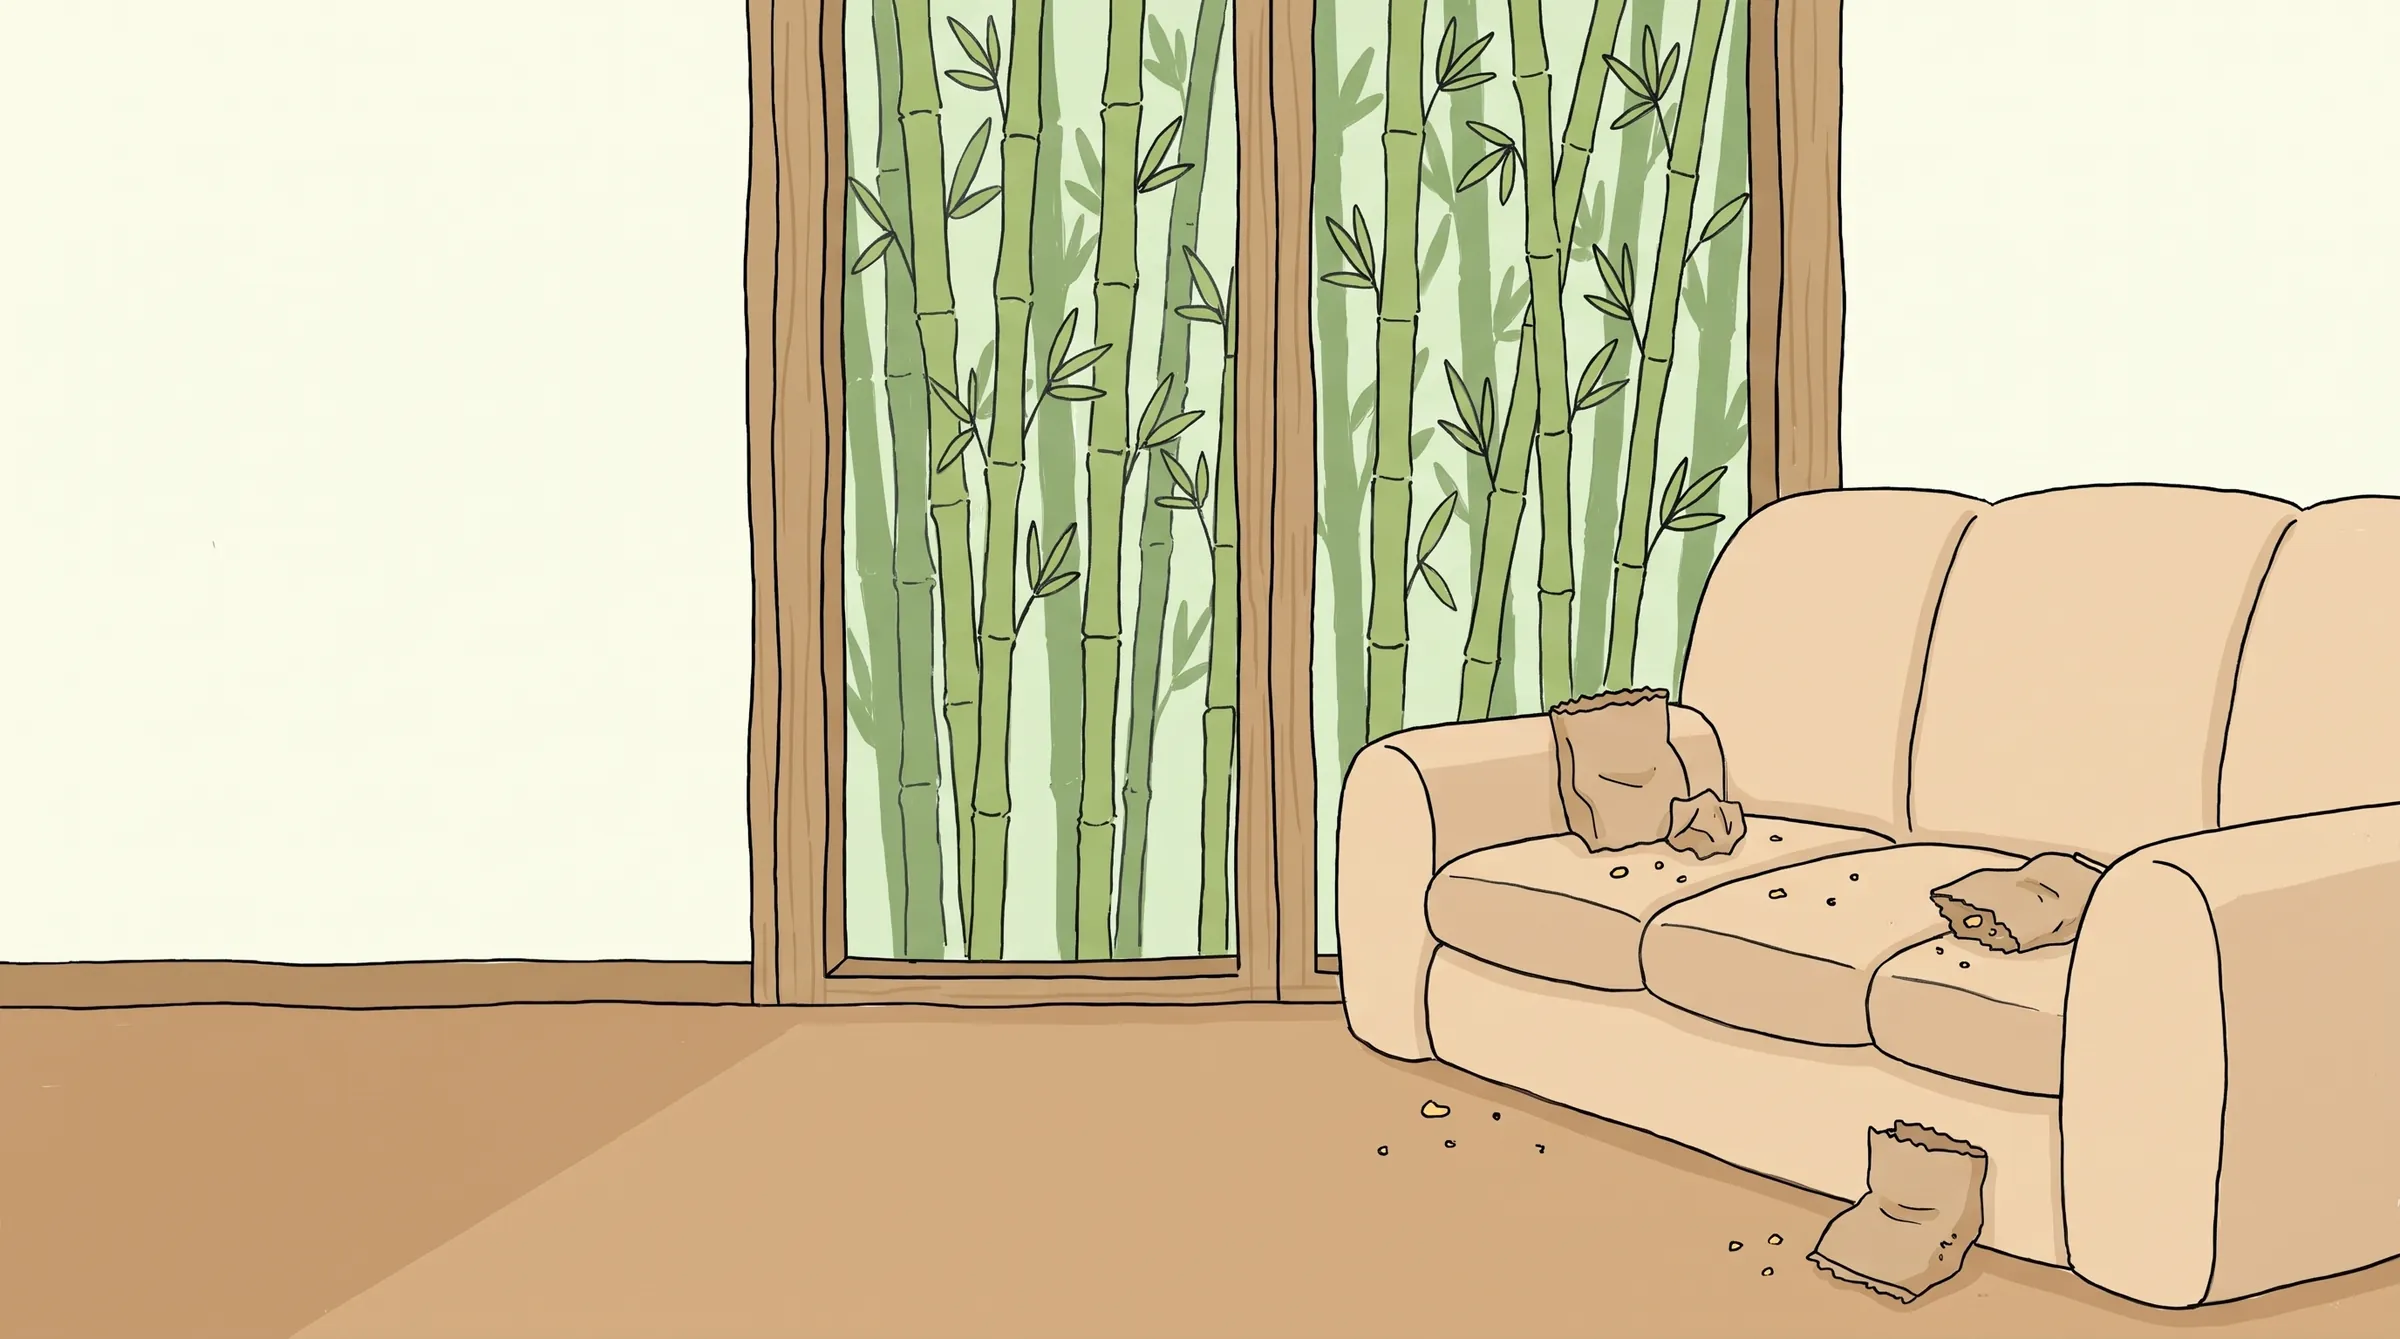
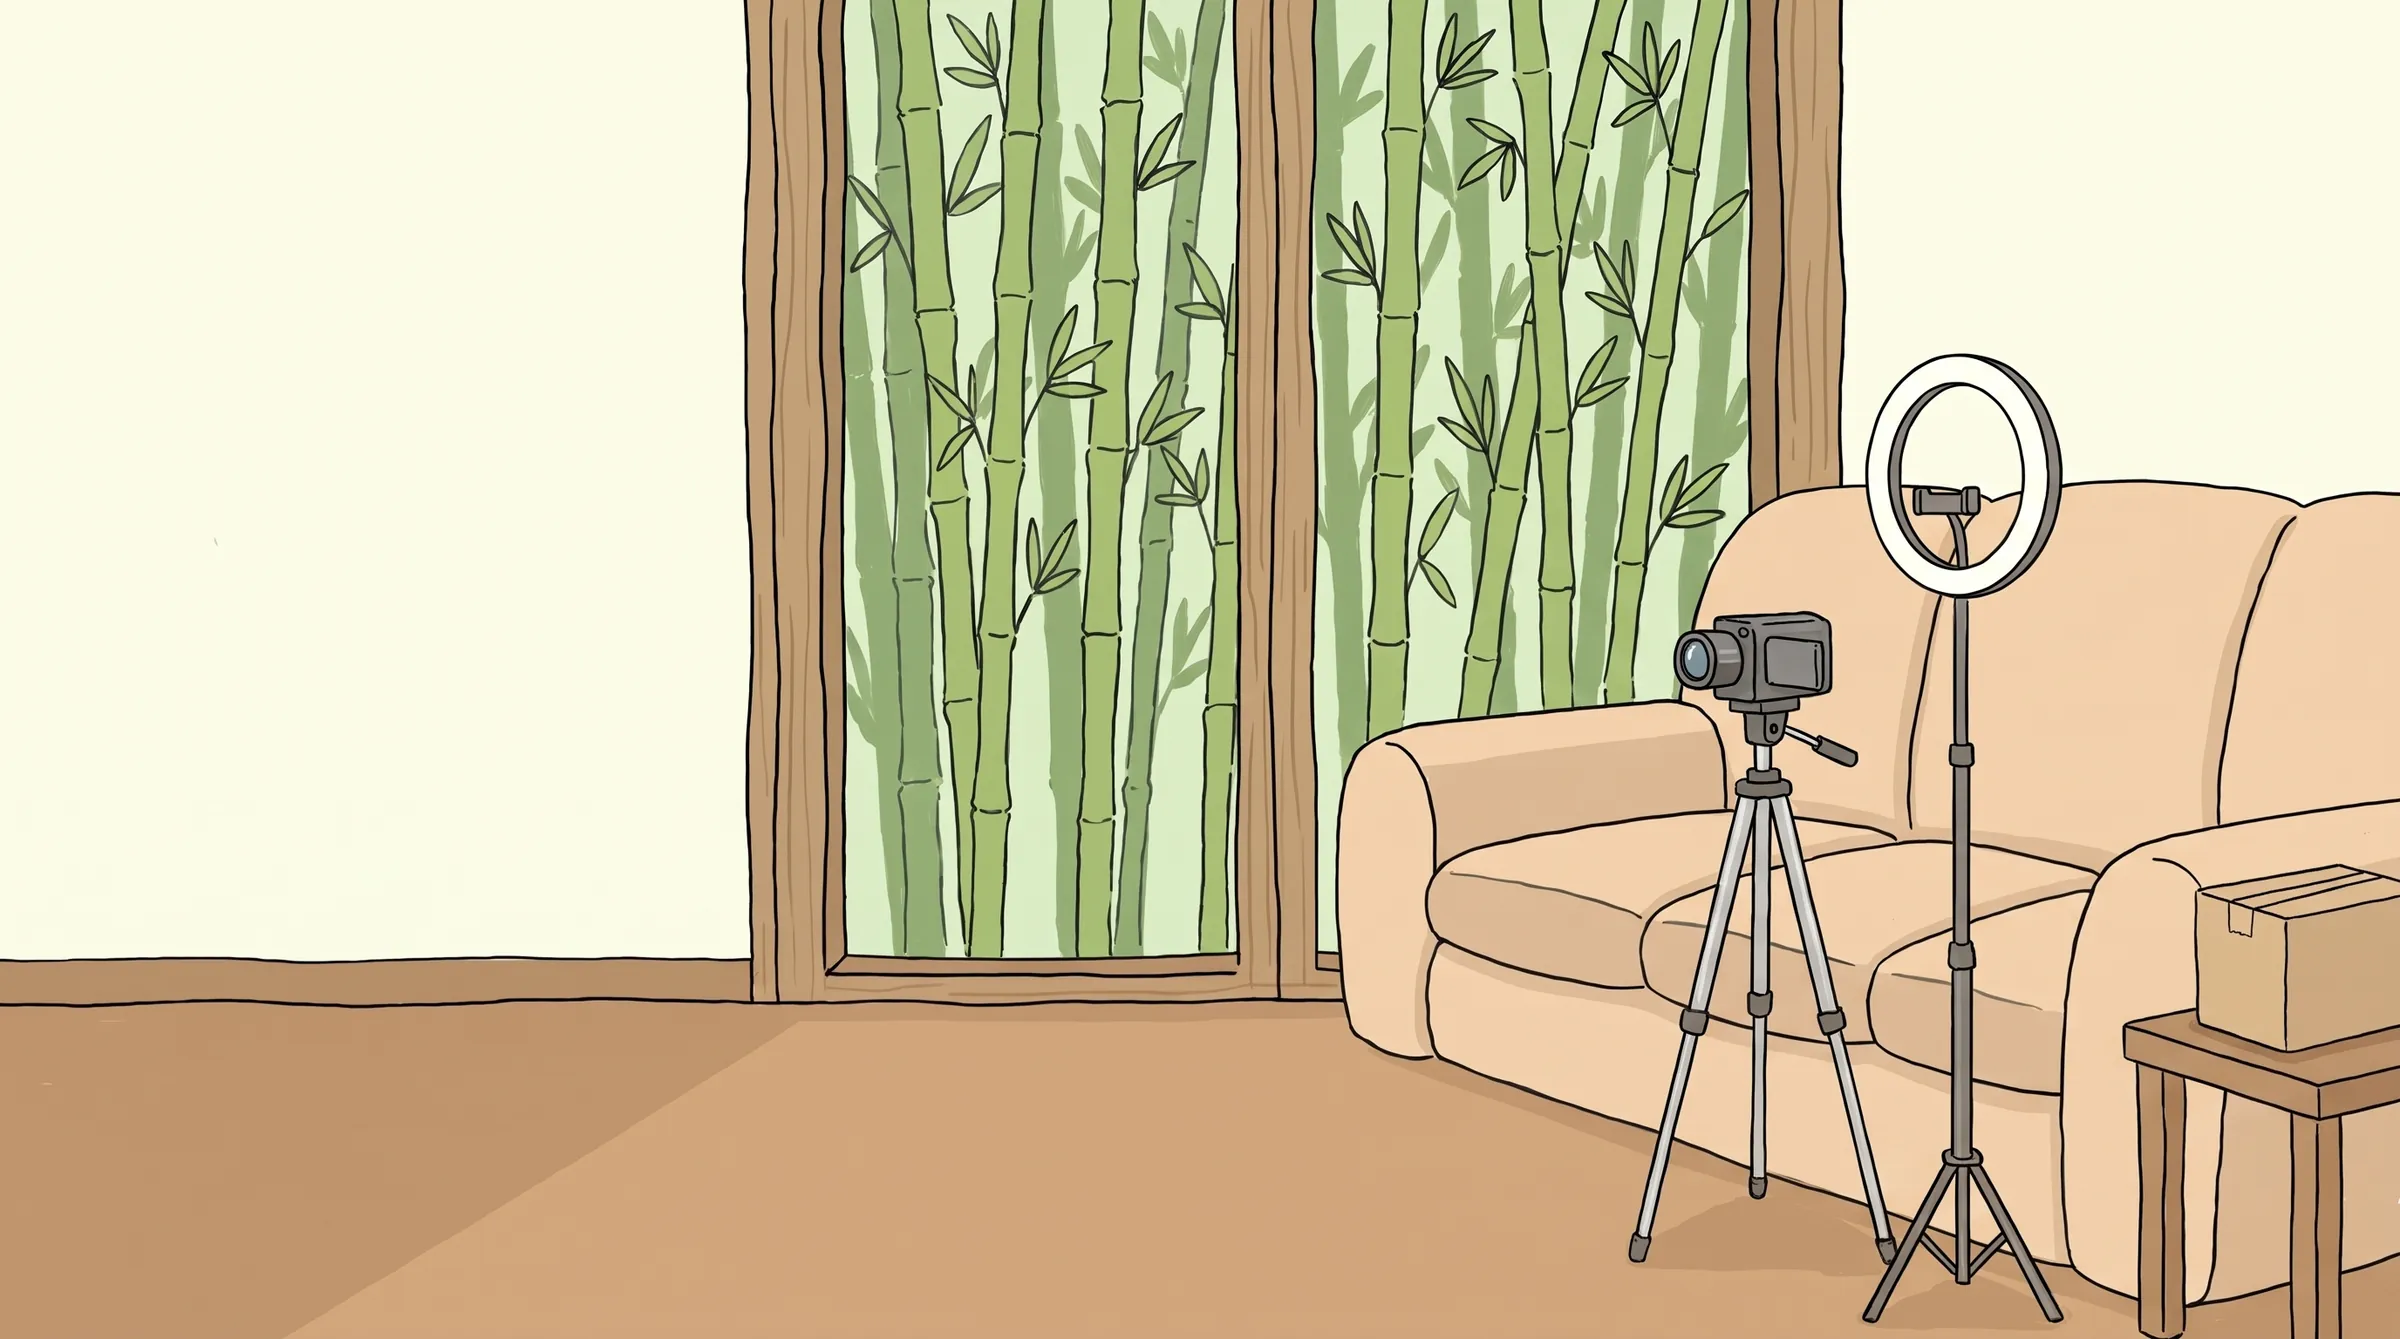
11/10 은녕 문구 확정·보늘 성격 변경 반영
- 문구: 첫 화면 한 줄 소개, 수식어(보늘·람다·라칠친할머니·북거씨), 인사 대사(끼토·보늘·람다·라칠친할머니·북거씨), 보늘 소개·오늘의 장면, 끼토·보늘 관계 설명, 쇼츠 예시 제목
- 보늘 장면: 소파에서 과자 → '늘보의 식탁' 먹방 촬영 중 천천히 국수 먹는 모습 (새 자세·동작·배경)
- 검색·공유 미리보기 소개 문구도 새 한 줄 소개로

Claude-Session: https://claude.ai/code/session_01Pmwfgxf9UDZgRtw85Z5VnG

diff --git a/index.html b/index.html
@@ -5,7 +5,7 @@
 <meta name="viewport" content="width=device-width, initial-scale=1, viewport-fit=cover">
 <!-- 공개 전 시험 기간: 검색에 노출되지 않게 (11/30 공개 때 삭제) -->
 <meta name="robots" content="noindex, nofollow">
-<meta name="description" content="소심한 완벽주의자와 태평한 귀차니스트, 그리고 그들을 둘러싼 솜솜시티 이웃들의 우당탕탕 일상">
+<meta name="description" content="소심한 완벽주의자 끼토를 둘러싼 솜솜시티 주민들의 공감 일상">
 <link rel="icon" href="img/face_kkito.webp">
 <link rel="apple-touch-icon" href="img/apple-touch-icon.png">
 <meta name="theme-color" content="#FBF8F1">
@@ -14,7 +14,7 @@
 <meta property="og:locale" content="ko_KR">
 <meta property="og:site_name" content="솜솜시티">
 <meta property="og:title" content="솜솜시티 Somsom City">
-<meta property="og:description" content="소심한 완벽주의자와 태평한 귀차니스트, 그리고 그들을 둘러싼 솜솜시티 이웃들의 우당탕탕 일상">
+<meta property="og:description" content="소심한 완벽주의자 끼토를 둘러싼 솜솜시티 주민들의 공감 일상">
 <meta property="og:url" content="https://pang861209-rgb.github.io/somsomcity-web/">
 <meta property="og:image" content="https://pang861209-rgb.github.io/somsomcity-web/img/og.jpg">
 <meta property="og:image:width" content="1200">
@@ -390,7 +390,7 @@ footer .wrap{display:flex;flex-wrap:wrap;gap:12px 24px;align-items:center;justif
     <button class="music stage-music hand" type="button" data-music aria-pressed="false"></button>
     <img class="bg" id="bg" src="img/street2.webp" alt="당근빌라, 도토리 상점, 대나무숲 빌라가 있는 솜솜시티 거리 (AI 시안)">
     <img class="logo" src="img/logo_cloud.webp" alt="솜솜시티">
-    <p class="lead">소심한 완벽주의자와 태평한 귀차니스트, 그리고 그들을 둘러싼 솜솜시티 이웃들의 우당탕탕 일상</p>
+    <p class="lead">소심한 완벽주의자 끼토를 둘러싼 솜솜시티 주민들의 공감 일상</p>
     <div class="track" id="track" role="listbox" aria-label="이웃 고르기"></div>
     <button class="arrow l hand" id="prev" type="button" aria-label="이전 이웃">‹</button>
     <button class="arrow r hand" id="next" type="button" aria-label="다음 이웃">›</button>
@@ -470,23 +470,23 @@ if(!/github\.io$|somsomcity\.com$/.test(location.hostname)||/review/.test(locati
 const IG="https://www.instagram.com/somsomcity.official/", YT="https://www.youtube.com/@somsomcity.official";
 const igSvg='<svg viewBox="0 0 24 24" aria-hidden="true"><path fill="currentColor" d="M12 2.2c3.2 0 3.6 0 4.8.1 3.3.1 4.8 1.7 4.9 4.9.1 1.3.1 1.6.1 4.8s0 3.6-.1 4.8c-.1 3.2-1.7 4.8-4.9 4.9-1.3.1-1.6.1-4.8.1s-3.6 0-4.8-.1c-3.3-.1-4.8-1.7-4.9-4.9C2.2 15.6 2.2 15.2 2.2 12s0-3.6.1-4.8C2.4 3.9 3.9 2.4 7.2 2.3 8.4 2.2 8.8 2.2 12 2.2zm0 4.7a5.1 5.1 0 100 10.2 5.1 5.1 0 000-10.2zm0 8.4a3.3 3.3 0 110-6.6 3.3 3.3 0 010 6.6zm5.3-9.8a1.2 1.2 0 100 2.4 1.2 1.2 0 000-2.4z"/></svg>';
 const ytSvg='<svg viewBox="0 0 24 24" aria-hidden="true"><path fill="currentColor" d="M23 7.2a3 3 0 00-2.1-2.1C19 4.6 12 4.6 12 4.6s-7 0-8.9.5A3 3 0 001 7.2 31 31 0 00.5 12a31 31 0 00.5 4.8 3 3 0 002.1 2.1c1.9.5 8.9.5 8.9.5s7 0 8.9-.5a3 3 0 002.1-2.1 31 31 0 00.5-4.8 31 31 0 00-.5-4.8zM9.7 15.1V8.9l5.8 3.1-5.8 3.1z"/></svg>';
-const ANIM2={"kkito": {"n": 36, "w": 136, "h": 520, "cols": 6}, "boneul": {"n": 36, "w": 274, "h": 520, "cols": 6}, "migae": {"n": 36, "w": 678, "h": 520, "cols": 6}, "ramda": {"n": 36, "w": 312, "h": 520, "cols": 6}, "lachilchin": {"n": 36, "w": 303, "h": 520, "cols": 6}, "bookgeo": {"n": 36, "w": 494, "h": 520, "cols": 6}};
+const ANIM2={"kkito": {"n": 36, "w": 136, "h": 520, "cols": 6}, "boneul": {"n": 36, "w": 464, "h": 520, "cols": 6}, "migae": {"n": 36, "w": 678, "h": 520, "cols": 6}, "ramda": {"n": 36, "w": 312, "h": 520, "cols": 6}, "lachilchin": {"n": 36, "w": 303, "h": 520, "cols": 6}, "bookgeo": {"n": 36, "w": 494, "h": 520, "cols": 6}};
 /* 발 위치: [가운데 %, 발 폭 %] — 스프라이트 첫 프레임 바닥 5%에서 잰 값 */
 const FOOT={"kkito":[43.7,33.8],"boneul":[48.9,33.4],"migae":[74.1,27.9],"ramda":[33.3,20.8],"lachilchin":[44.5,44.2],"bookgeo":[50.3,74.9]};
-const FOOT2={"kkito":[37.5,57.4],"boneul":[46.7,59.1],"migae":[69.5,26.8],"ramda":[27.1,29.2],"lachilchin":[44.2,46.2],"bookgeo":[50.3,86.8]};
+const FOOT2={"kkito":[37.5,57.4],"boneul":[49.7,64.0],"migae":[69.5,26.8],"ramda":[27.1,29.2],"lachilchin":[44.2,46.2],"bookgeo":[50.3,86.8]};
 const shdH=f=>`<i class="shd" aria-hidden="true" style="left:${f[0]}%;width:${Math.max(f[1]*1.35,18)}%"></i>`;
 const ANIM={"kkito": {"n": 36, "w": 231, "h": 520, "cols": 6}, "boneul": {"n": 36, "w": 488, "h": 520, "cols": 6}, "migae": {"n": 36, "w": 509, "h": 520, "cols": 6}, "ramda": {"n": 36, "w": 432, "h": 520, "cols": 6}, "lachilchin": {"n": 36, "w": 317, "h": 520, "cols": 6}, "bookgeo": {"n": 36, "w": 577, "h": 520, "cols": 6}};
 /* 캐논·확정 보드 기준. 임시 = 은녕 확인 필요 */
 const P=[
- {id:"lachilchin",ko:"라칠친할머니",en:"LACHILCHIN",mod:"동네 어른",t:1,h:53,hi:"그래~",pose:"tea",bg:"granny",side:"R",where:"당근빌라, 할머니 집",
+ {id:"lachilchin",ko:"라칠친할머니",en:"LACHILCHIN",mod:"동네 어르신",h:53,hi:"그래~ 내 얘기 들어볼래?",pose:"tea",bg:"granny",side:"R",where:"당근빌라, 할머니 집",
   desc:"당근빌라에 사는 친칠라 할머니. 동네 아이들에게 간식을 만들어 나눠 줘요.",story:"찻잔을 들고 \"그래~\" 하며 미소 짓는 할머니. 오늘도 아이들 간식을 만들어요.",tint:"#F0EBF3"},
- {id:"boneul",ko:"보늘",en:"BONEUL",mod:"태평한 귀차니스트",h:100,hi:"음… 그거 내일 해도 되지 않을까?",tmp:1,pose:"snack",bg:"sofa",side:"L",where:"대나무숲 빌라",
-  desc:"대나무숲 빌라 반장인 나무늘보. 끼토가 멘붕에 빠지면 무심한 척 해결책을 툭 던져요.",story:"소파에 녹아내리듯 앉아 과자 봉지를 탈탈. 부스러기는 미개가 치워 줘요.",tint:"#EEF1E8"},
- {id:"kkito",ko:"끼토",en:"KKITO",mod:"소심한 완벽주의자",h:108,hi:"가스 불 잠갔나? 미개 밥은 줬나?",pose:"worry",bg:"901",side:"R",where:"당근빌라 301호",
+ {id:"boneul",ko:"보늘",en:"BONEUL",mod:"자기만의 속도로 사는 안정형 나무늘보",h:100,hi:"내 속도로 살면 돼.",pose:"mukbang",bg:"sofa",side:"L",where:"대나무숲 빌라",
+  desc:"만사가 느린 대나무숲 빌라 반장 나무늘보. 뒤처질까 봐 불안해하는 끼토를 옆에서 천천히 진정시켜 줘요.",story:"오늘도 '늘보의 식탁' 촬영 중. 아주 천천히 씹는 모습에 구독자들은 힐링돼요.",tint:"#EEF1E8"},
+ {id:"kkito",ko:"끼토",en:"KKITO",mod:"소심한 완벽주의자",h:108,hi:"가스불 잠갔나? 고데기 전원은 껐나?",pose:"worry",bg:"901",side:"R",where:"당근빌라 301호",
   desc:"당근빌라 301호에 사는 분홍 토끼. 당근빌라 반장이에요.",story:"외출하려다 멈춰 선 끼토. 가스 불, 미개 밥, 창문… 걱정이 끝나지 않아요.",tint:"#F6ECEF"},
- {id:"ramda",ko:"람다",en:"RAMDA",mod:"도토리 상점 주인",t:1,h:76,hi:"어서 와! 오늘도 보물 많이 주워 왔어.",tmp:1,pose:"treasure",bg:"acorn",side:"L",where:"도토리 상점 · 집은 당근빌라 203호",
+ {id:"ramda",ko:"람다",en:"RAMDA",mod:"문구점 주인장",h:76,hi:"어서와! 오늘도 도토리 상점은 운영중이야!",pose:"treasure",bg:"acorn",side:"L",where:"도토리 상점 · 집은 당근빌라 203호",
   desc:"당근빌라 203호에 사는 다람쥐. 빈티지 소품샵 '도토리 상점'을 운영하고, 뭐든 주머니에 줍줍해요.",story:"3년 넘게 안 팔린 물건은 나무 밑동 가판대 '나이테존'으로. 나이만큼 할인해요.",tint:"#F3EBE3"},
- {id:"bookgeo",ko:"북거씨",en:"BOOKGEO",mod:"향수 공방 조향사",t:1,h:52,hi:"음… 오늘은 바다 향이 어울리겠군요.",tmp:1,pose:"sniff",bg:"perfume",side:"L",where:"북거 향수 공방",wt:1,
+ {id:"bookgeo",ko:"북거씨",en:"BOOKGEO",mod:"커스텀 향수 공방 조향사",h:52,hi:"오늘 너에겐 이 향이 어울리겠어. 잠시만 기다려봐.",pose:"sniff",bg:"perfume",side:"L",where:"북거 향수 공방",wt:1,
   desc:"검정 터틀넥에 네모난 검은 안경을 쓴 거북. 북거 향수 공방에서 향을 만들어요.",story:"시향지를 코에 대고 눈을 지그시. 베스트 1위 '바다향'의 비밀은 아직 몰라요.",tint:"#F1F1E8"},
  {id:"migae",ko:"미개",en:"MIGAE",mod:"끼토의 반려개미",t:1,h:20,hi:"(더듬이를 쫑긋쫑긋)",tmp:1,pose:"belly",bg:"floor",side:"R",where:"당근빌라 301호 · 끼토와 함께",
   desc:"끼토와 함께 당근빌라 301호에 사는 반려개미. 끼토를 닮아 겁이 많고, 가는 더듬이 두 개로 기분을 다 말해요.",story:"보늘이 흘린 과자 부스러기는 미개 담당. 기분이 좋으면 배를 보이며 벌러덩.",tint:"#FBEDED"}
@@ -627,7 +627,7 @@ bg.addEventListener("load",layout);
 /* ---------- 2. 관계도 (캐논 '관계도' 기준) ---------- */
 const NODE={kkito:[480,330],boneul:[800,330],migae:[650,545],ramda:[175,300],lachilchin:[480,72],bookgeo:[255,560]};
 const REL=[
- ["kkito","boneul","절친","한때 당근빌라·대나무숲 빌라 두 반장으로 앙숙이었지만, 지금은 둘도 없는 절친. 끼토가 패닉에 빠지면 보늘이 무심한 척 해결책을 툭.",0],
+ ["kkito","boneul","절친","한때 당근빌라·대나무숲 빌라 두 반장으로 앙숙이었지만, 지금은 둘도 없는 절친. 끼토가 불안해하면 보늘이 옆에서 천천히 진정시켜 줘요.",0],
  ["kkito","migae","반려개미","끼토를 닮아 겁이 많은 미개. 끼토의 정신적 지주(?).",0],
  ["kkito","ramda","취미 메이트","다꾸·문구 쇼핑을 같이 가면 3시간 동안 못 나와요.",0],
  ["boneul","migae","부스러기 공생","보늘이 흘리는 과자 부스러기를 미개가 청소(먹기)해요.",0,[75,72]],
@@ -656,7 +656,7 @@ relsvg.querySelectorAll(".node").forEach(n=>{n.addEventListener("click",()=>relF
 /* ---------- 3. 이웃 장면 ---------- */
 document.querySelector("[data-scenes]").innerHTML=ORDER.map(id=>{const p=by[id];const actorSide=p.side==="R"?"right:14%":"left:14%";
   /* 장면 속 키 (11/3 은녕 의견: 끼토·보늘 크게, 람다 살짝 크게, 미개 조금 작게) */
-  const ah={kkito:68,boneul:64,ramda:46,lachilchin:37,bookgeo:44,migae:25}[id];
+  const ah={kkito:68,boneul:46,ramda:46,lachilchin:37,bookgeo:44,migae:25}[id];
   return `<section class="scene ${p.side==="R"?"L":"R"}" id="s-${id}" data-scene="${id}" style="--ax:${p.side==="R"?"68%":"32%"}">
    <div class="pic"><div class="bg" data-bgsrc="img/scene_${p.bg}.webp" style="--bpx:${p.side==="R"?"64%":"36%"}"></div>
      <div class="actor" style="height:${ah}%;${actorSide}">${shdH(FOOT2[id])}<canvas data-act="${id}" width="${ANIM2[id].w}" height="${ANIM2[id].h}" role="img" aria-label="${esc(p.ko)}"></canvas></div></div>
@@ -711,7 +711,7 @@ document.querySelectorAll("canvas[data-act]").forEach(cv=>{const id=cv.dataset.a
 
 /* ---------- 4. 소식 (예시) ---------- */
 document.querySelector("[data-ig]").innerHTML=ORDER.map(id=>`<a class="post hand" href="${IG}" style="background:${by[id].tint} center/cover" data-bgsrc="img/scene_${by[id].bg}.webp"><span class="ex">예시</span><img src="img/pose_${id}_${by[id].pose}.webp" alt="${by[id].ko} 예시 게시물" loading="lazy" decoding="async"></a>`).join("");
-document.querySelector("[data-yt]").innerHTML=[["901","kkito","끼토의 외출 준비"],["sofa","boneul","보늘의 소파 생활"],["acorn","ramda","도토리 상점 나이테존"],["granny","lachilchin","할머니의 티타임"]].map(([b,id,t])=>`<a class="short hand" href="${YT}" data-bgsrc="img/scene_${b}.webp"><span class="ex">쇼츠 예시</span><img class="who" src="img/pose_${id}_${by[id].pose}.webp" alt="" loading="lazy" decoding="async"><span class="play" aria-hidden="true"></span><span class="t">${t}</span></a>`).join("");
+document.querySelector("[data-yt]").innerHTML=[["901","kkito","끼토의 외출 준비"],["sofa","boneul","보늘의 느린 먹방"],["acorn","ramda","도토리 상점 나이테존"],["granny","lachilchin","할머니의 티타임"]].map(([b,id,t])=>`<a class="short hand" href="${YT}" data-bgsrc="img/scene_${b}.webp"><span class="ex">쇼츠 예시</span><img class="who" src="img/pose_${id}_${by[id].pose}.webp" alt="" loading="lazy" decoding="async"><span class="play" aria-hidden="true"></span><span class="t">${t}</span></a>`).join("");
 
 document.querySelectorAll("[data-bgsrc]").forEach(el=>near.observe(el));
 /* ---------- 배경음악 (솜솜시티 주제곡) ---------- */
